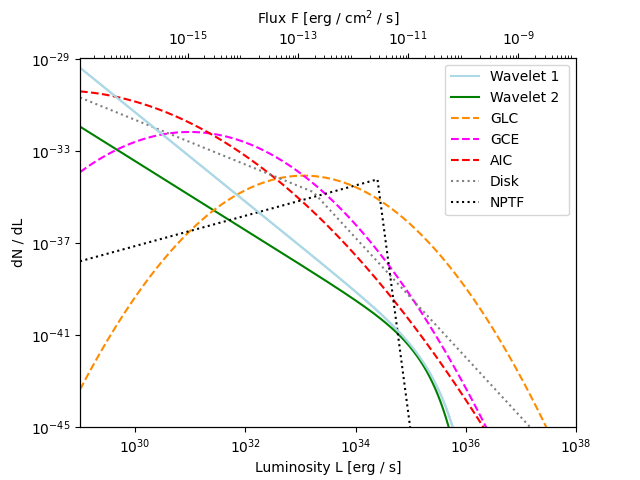
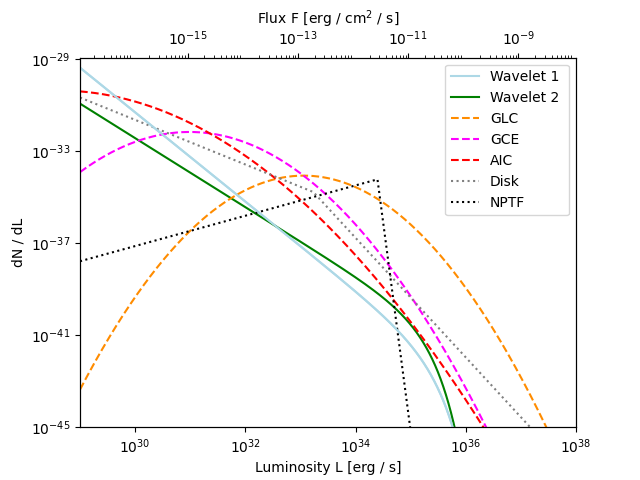
luminosity function impl

diff --git a/luminosity_func.py b/luminosity_func.py
@@ -65,7 +65,7 @@ p_pl1 = power_law(l , alpha1 , l_m1 , l_M1) #ming power law lum func
 
 #-----------------------------------------------------------------------------
 #wavelet 2 - power law 
-l_m2 = 1.0e29  #erg s^(-1)  #L_min : low flux step-func cutoff
+l_m2 = 1.0e30  #erg s^(-1)  #L_min : low flux step-func cutoff
 l_M2 = 7.0e34  #erg s^(-1)   #L_MAX : high flux exp cutoff
 alpha2 = 1.5  #slope
 
@@ -134,7 +134,7 @@ ax2.set_xticks(np.geomspace(1.0e-15, 1.0e-9, 4))
 
 ax1.set_xlabel("Luminosity L [erg / s]")
 ax2.set_xlabel(r'Flux F [erg / $\mathregular{cm^2}$ / s]') 
-ax1.set_ylabel("dN / dL")
+ax1.set_ylabel(r'dN / dL')
 
 plt.ylim(1.0e-45 , 1.2e-29)
 ax1.set_xlim(min, max)
@@ -144,12 +144,10 @@ ax1.legend()
 plt.savefig(os.path.join('pl.png'))
 
 #----------------------------------------------------------------------------
-#e-fold plot
+#e-fold in L plot
 
 fig2 , ax3 = plt.subplots()
 ax4 = ax3.twiny()
-
-
 
 ax3.loglog(l, l*p_pl1, color = 'lightblue', label = 'Wavelet 1')
 ax3.loglog(l, l*p_pl2, color = 'green', label = 'Wavelet 2 ')
@@ -175,3 +173,33 @@ ax4.set_xlim(min*r, max*r)
 ax3.legend()
 
 plt.savefig(os.path.join('1efold.png'))
+
+#----------------------------------------------------------------------------
+#2e-folds in L plot
+
+fig3 , ax5 = plt.subplots()
+ax6 = ax5.twiny()
+
+ax5.loglog(l, l*l*p_pl1, color = 'lightblue', label = 'Wavelet 1')
+ax5.loglog(l, l*l*p_pl2, color = 'green', label = 'Wavelet 2 ')
+ax5.loglog(l, l*l*p_glc, color = 'darkorange', linestyle = ls1, label= 'GLC')
+ax5.loglog(l, l*l*p_gce, color = 'fuchsia', linestyle = ls1, label = 'GCE')
+ax5.loglog(l, l*l*p_aic, color = 'red' , linestyle = ls1 , label = 'AIC')
+ax5.loglog(l, l*l*p_disk, color = 'gray' , linestyle = ls2, label = 'Disk')
+ax5.loglog(l, l*l*p_nptf, color = 'black', linestyle = ls2,  label = 'NPTF')
+ax6.loglog(f_pl, l*l* p_pl1, color = 'lightblue')
+
+#graphical config
+ax5.set_yticks(np.geomspace(1.0e28, 1.0e34, 3))
+ax5.set_xticks(np.geomspace(1.0e30, 1.0e38, 5))
+ax6.set_xticks(np.geomspace(1.0e-15, 1.0e-9, 4))
+
+ax5.set_xlabel("Luminosity L [erg / s]")
+ax6.set_xlabel(r'Flux F [erg / $\mathregular{cm^2}$ / s]')
+ax5.set_ylabel(r' $\mathregular{L^2}$ dN / dL [$\mathregular{erg^2}$ / $\mathregular{s^2}$]')
+
+plt.ylim(1.0e27, 1.0e35)
+ax5.set_xlim(min, max)
+ax6.set_xlim(min*r, max*r)
+ax5.legend()
+plt.savefig(os.path.join('2efold.png'))
